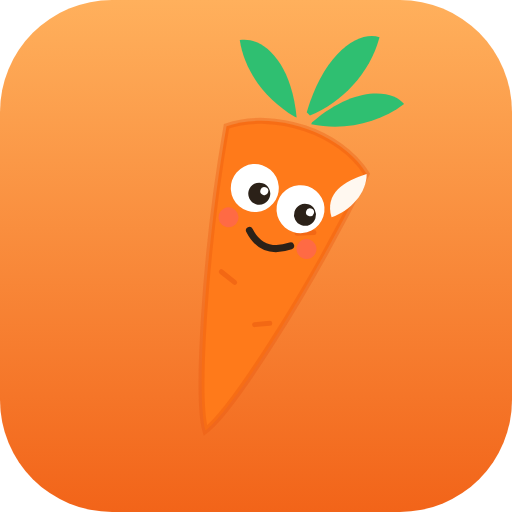
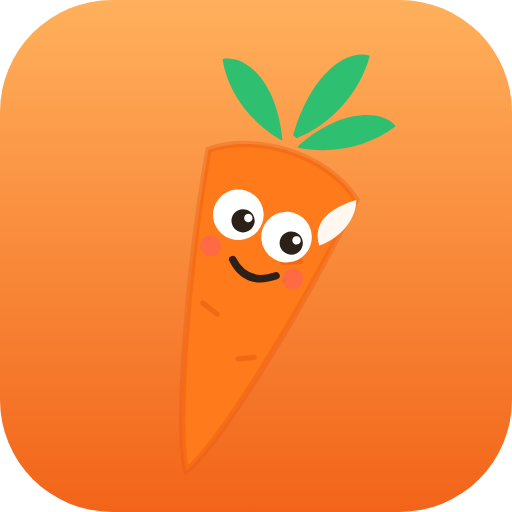
Icono al 95% y blindaje del estado guardado
ICONO

La zanahoria pasa a ocupar el 95% del cuadrado naranja. La escala no va a
ojo: se midio la caja real del dibujo ya rotado 18 grados (299,6 x 461,4 u) y
se calculo el factor para que el lado mayor sea el 95% de 512, recentrando en
(256, 256). Comprobado tras generar: 95,0% exacto y centrado.

El icono maskable NO puede ir al 95%: Android lo recorta en circulo o
squircle segun el lanzador, asi que la caja completa se ajusta al circulo
seguro del 80% (diagonal 410 px). Queda al 67% del lado, que es el maximo que
garantiza que no se corten ni las hojas ni la punta. Los cuatro PNG se han
regenerado desde los SVG.

BLINDAJE DEL ESTADO

localStorage no es de fiar: en github.io todos los proyectos de una cuenta
comparten dominio, asi que cualquier otra pagina publicada ahi puede leerlo y
escribirlo, igual que quien tenga el movil un momento. Al cargar se validan
tipos y valores:

- aiProvider, theme y lang solo aceptan valores de su lista; cualquier otra
  cosa vuelve al valor por defecto.
- aiKey solo se conserva si tiene formato conocido de Gemini o Groq.
- shoppingFreqWeeks solo 1, 2, 3 o 4.
- preferences, customDiet y name se recortan (600 y 60 caracteres). Son texto
  libre que acaba dentro del prompt enviado a la IA.
- plans, expenses, intolerances, suppressed y dislikes se fuerzan a array;
  progress, pantry, frozen y products a objeto.

Un fallo encontrado al probarlo y corregido antes de subir: las constantes
[…]

Changed region(s): [[0.3438, 0.0625, 0.7812, 0.6875], [0.5312, 0.6562, 0.5625, 0.6875]]

diff --git a/js/store.js b/js/store.js
@@ -29,6 +29,59 @@ window.ZSTORE = (() => {
     },
   };
 
+  // El contenido de localStorage no es de fiar: cualquier pagina del mismo
+  // origen (en github.io todos los proyectos comparten dominio) puede
+  // escribirlo, igual que quien tenga el movil un momento. Se comprueban tipos
+  // y valores al cargar, para que un estado manipulado no rompa la app ni
+  // cuele texto arbitrario en el prompt que se envia a la IA.
+  const PROVEEDORES = ["local","gemini","groq"];
+  const TEMAS = ["light","dark","orange"];
+  const IDIOMAS = ["es","ca","en"];
+  const FORMATO_CLAVE = /^(AIza[0-9A-Za-z_\-]{20,}|AQ\.[0-9A-Za-z_\-]{20,}|gsk_[0-9A-Za-z]{20,})$/;
+  const MAX_LIBRE = 600;   // tope de los campos de texto libre
+
+  function texto(v, max){
+    return typeof v === "string" ? v.slice(0, max || MAX_LIBRE) : "";
+  }
+  function sanear(st){
+    try{
+      if (!st || typeof st !== "object") return structuredClone(DEFAULT);
+      const d = DEFAULT;
+      // Colecciones: si no tienen la forma esperada, se vuelve al valor por defecto
+      if (!Array.isArray(st.plans)) st.plans = [];
+      if (!Array.isArray(st.expenses)) st.expenses = [];
+      if (!Array.isArray(st.intolerances)) st.intolerances = [];
+      if (!Array.isArray(st.suppressed)) st.suppressed = [];
+      ["progress","pantry","frozen","products"].forEach(k=>{
+        if (!st[k] || typeof st[k] !== "object" || Array.isArray(st[k])) st[k] = {};
+      });
+
+      const s = (st.settings && typeof st.settings === "object") ? st.settings : {};
+      st.settings = {
+        ...structuredClone(d.settings),
+        ...s,
+        // Valores cerrados: cualquier cosa fuera de la lista vuelve al defecto
+        aiProvider: PROVEEDORES.includes(s.aiProvider) ? s.aiProvider : d.settings.aiProvider,
+        theme:      TEMAS.includes(s.theme)            ? s.theme      : d.settings.theme,
+        lang:       IDIOMAS.includes(s.lang)           ? s.lang       : d.settings.lang,
+        // Una clave que no tenga formato conocido no se conserva
+        aiKey:      (typeof s.aiKey === "string" && FORMATO_CLAVE.test(s.aiKey)) ? s.aiKey : "",
+        notifications: !!s.notifications,
+        shoppingFreqWeeks: [1,2,3,4].includes(+s.shoppingFreqWeeks) ? +s.shoppingFreqWeeks : 1,
+      };
+
+      // Texto libre que acaba dentro del prompt de la IA: acotado
+      st.plans.forEach(p=>{
+        if (!p || typeof p !== "object" || !p.profile || typeof p.profile !== "object") return;
+        p.profile.preferences = texto(p.profile.preferences);
+        p.profile.customDiet  = texto(p.profile.customDiet);
+        p.profile.name        = texto(p.profile.name, 60);
+        if (!Array.isArray(p.profile.dislikes)) p.profile.dislikes = [];
+      });
+      return st;
+    }catch{ return structuredClone(DEFAULT); }
+  }
+
   let state = load();
 
   function load() {
@@ -39,7 +92,7 @@ window.ZSTORE = (() => {
       // Object.assign usa [[Set]]: una clave __proto__ en el JSON cambiaria el
       // prototipo del estado. Se descarta antes de mezclar.
       if (guardado && typeof guardado === "object") delete guardado.__proto__;
-      return Object.assign(structuredClone(DEFAULT), guardado);
+      return sanear(Object.assign(structuredClone(DEFAULT), guardado));
     } catch { return structuredClone(DEFAULT); }
   }
   function save() { try { localStorage.setItem(KEY, JSON.stringify(state)); } catch {} }

diff --git a/index.html b/index.html
@@ -17,8 +17,8 @@
   <link rel="manifest" href="manifest.webmanifest" />
   <link rel="icon" type="image/svg+xml" href="assets/icon.svg" />
   <link rel="apple-touch-icon" href="assets/icon.svg" />
-  <script src="js/frame-guard.js?v=28"></script>
-  <link rel="stylesheet" href="css/app.css?v=28" />
+  <script src="js/frame-guard.js?v=29"></script>
+  <link rel="stylesheet" href="css/app.css?v=29" />
 </head>
 <body>
   <!-- Splash / carga -->
@@ -46,15 +46,15 @@
   <!-- Contenedor de notificaciones toast -->
   <div id="toasts" class="toasts"></div>
 
-  <script src="js/data.js?v=28"></script>
-  <script src="js/photos.js?v=28"></script>
-  <script src="js/knowledge.js?v=28"></script>
-  <script src="js/i18n.js?v=28"></script>
-  <script src="js/engine.js?v=28"></script>
-  <script src="js/store.js?v=28"></script>
-  <script src="js/mascot.js?v=28"></script>
-  <script src="js/ui.js?v=28"></script>
-  <script src="js/app.js?v=28"></script>
-  <script src="js/sw-register.js?v=28"></script>
+  <script src="js/data.js?v=29"></script>
+  <script src="js/photos.js?v=29"></script>
+  <script src="js/knowledge.js?v=29"></script>
+  <script src="js/i18n.js?v=29"></script>
+  <script src="js/engine.js?v=29"></script>
+  <script src="js/store.js?v=29"></script>
+  <script src="js/mascot.js?v=29"></script>
+  <script src="js/ui.js?v=29"></script>
+  <script src="js/app.js?v=29"></script>
+  <script src="js/sw-register.js?v=29"></script>
 </body>
 </html>

diff --git a/sw.js b/sw.js
@@ -1,5 +1,5 @@
 /* ZANA · Service Worker (offline cache) */
-const CACHE = "zana-v28";
+const CACHE = "zana-v29";
 // Precache: solo el esqueleto de la app. js/photos.js (2,7 MB de imagenes)
 // queda fuera a proposito: addAll() es atomico y, con mala cobertura, esa
 // descarga hacia fallar la instalacion entera del service worker y la app se
@@ -7,17 +7,17 @@ const CACHE = "zana-v28";
 const ASSETS = [
   "index.html",
   "manifest.webmanifest",
-  "css/app.css?v=28",
-  "js/data.js?v=28",
-  "js/knowledge.js?v=28",
-  "js/i18n.js?v=28",
-  "js/engine.js?v=28",
-  "js/store.js?v=28",
-  "js/mascot.js?v=28",
-  "js/ui.js?v=28",
-  "js/app.js?v=28",
-  "js/frame-guard.js?v=28",
-  "js/sw-register.js?v=28",
+  "css/app.css?v=29",
+  "js/data.js?v=29",
+  "js/knowledge.js?v=29",
+  "js/i18n.js?v=29",
+  "js/engine.js?v=29",
+  "js/store.js?v=29",
+  "js/mascot.js?v=29",
+  "js/ui.js?v=29",
+  "js/app.js?v=29",
+  "js/frame-guard.js?v=29",
+  "js/sw-register.js?v=29",
   "assets/icon.svg",
   "assets/icon-maskable.svg",
   "assets/icon-192.png",

diff --git a/js/app.js b/js/app.js
@@ -5,7 +5,7 @@ window.ZAPP = (() => {
   const S = window.ZSTORE, E = window.ZENGINE, D = window.ZDATA, U = window.ZUI, M = window.ZMASCOT;
   const app = document.getElementById("app");
   const esc = U.esc;
-  const APP_VER = "v28";  // súbelo en cada despliegue (junto con index.html/sw.js)
+  const APP_VER = "v29";  // súbelo en cada despliegue (junto con index.html/sw.js)
 
   let route = { name:"home", params:{} };
   let prevRoute = { name:"home", params:{} };
